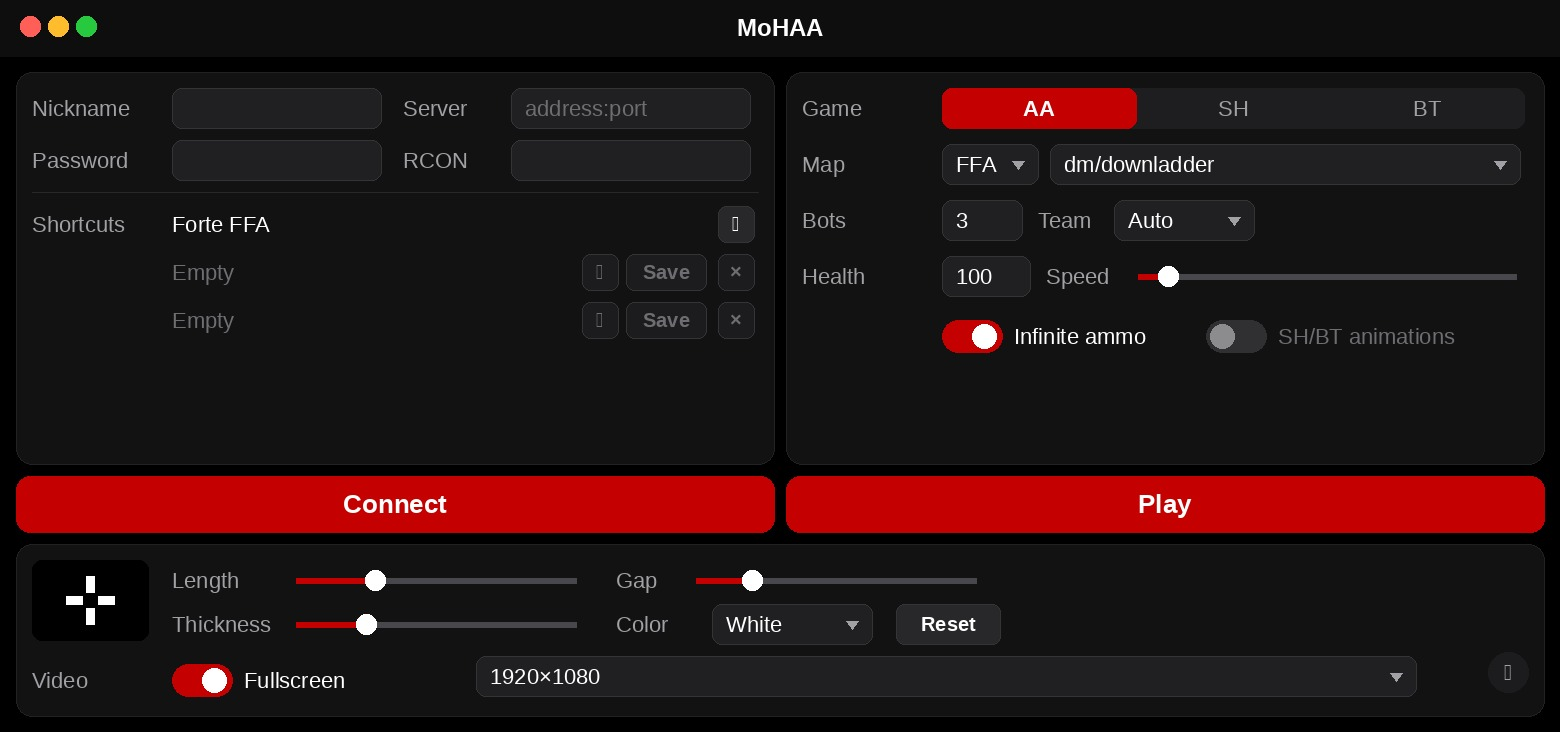
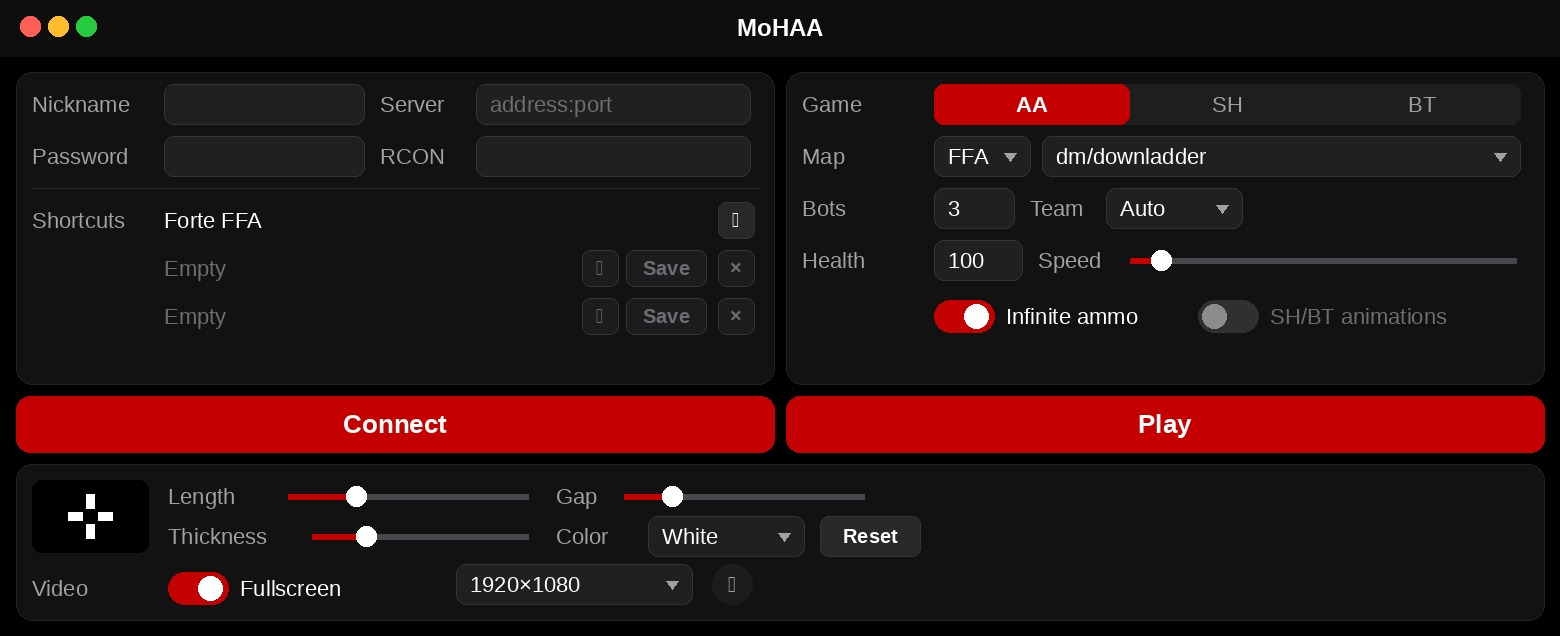
Keep the resolution menu at its own width
The menu no longer stretches across the video row, and the preview cards
end at their last row.

diff --git a/Launcher.swift b/Launcher.swift
@@ -709,7 +709,7 @@ struct LauncherView: View {
             Picker("Resolution", selection: $config.resolution) {
                 ForEach(resolutions, id: \.self) { Text($0).tag($0) }
             }
-            .frame(maxWidth: .infinity)
+            .fixedSize()
             verifyButton
         }
     }
